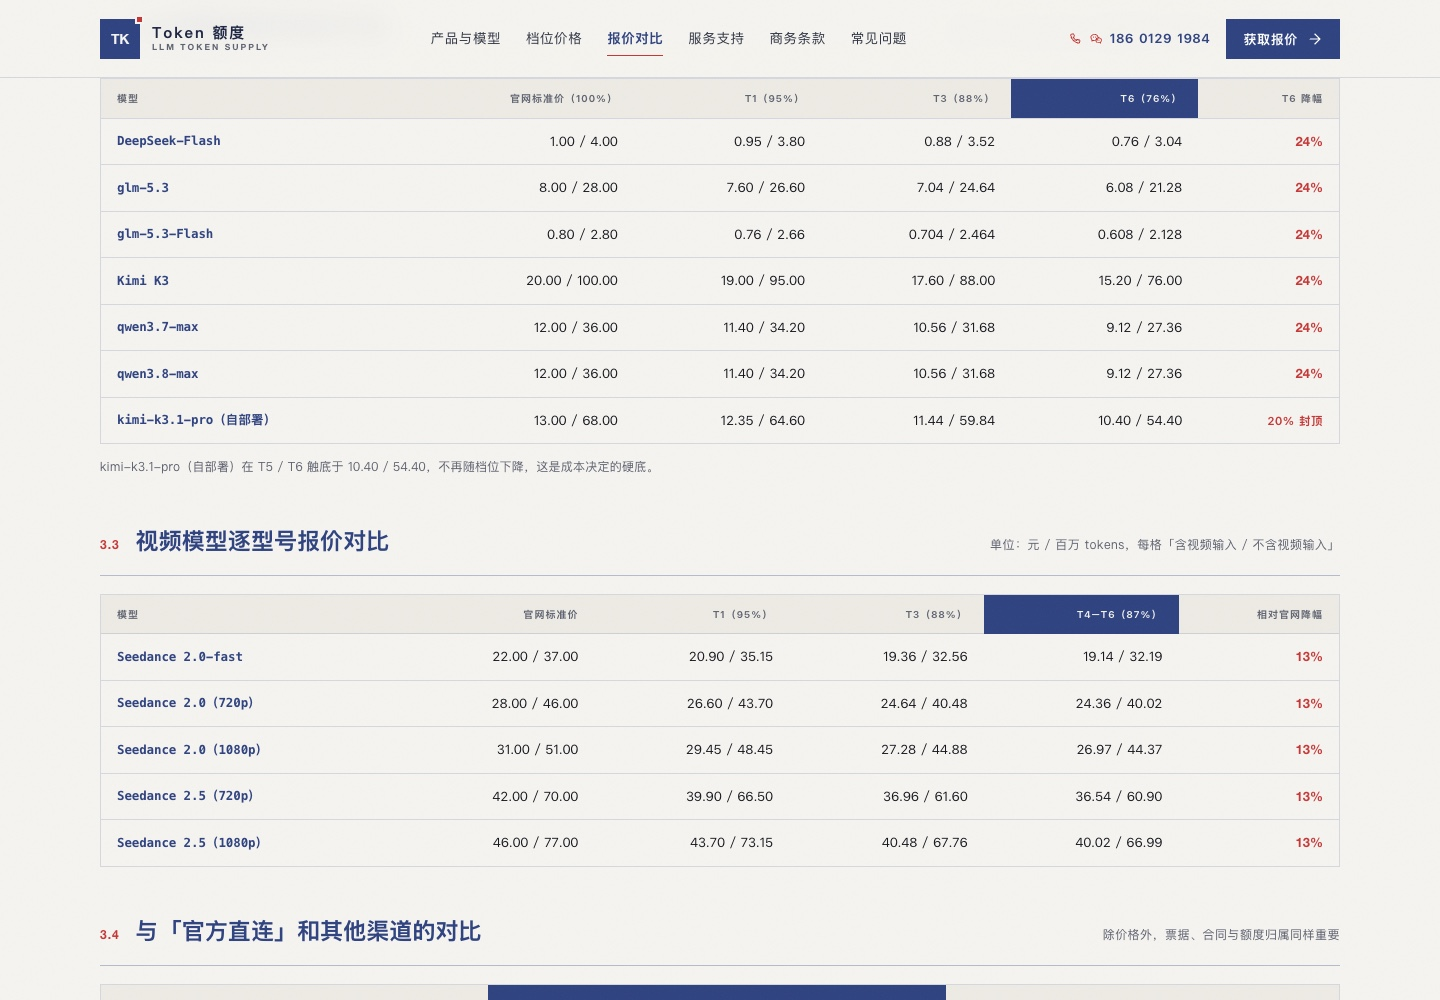
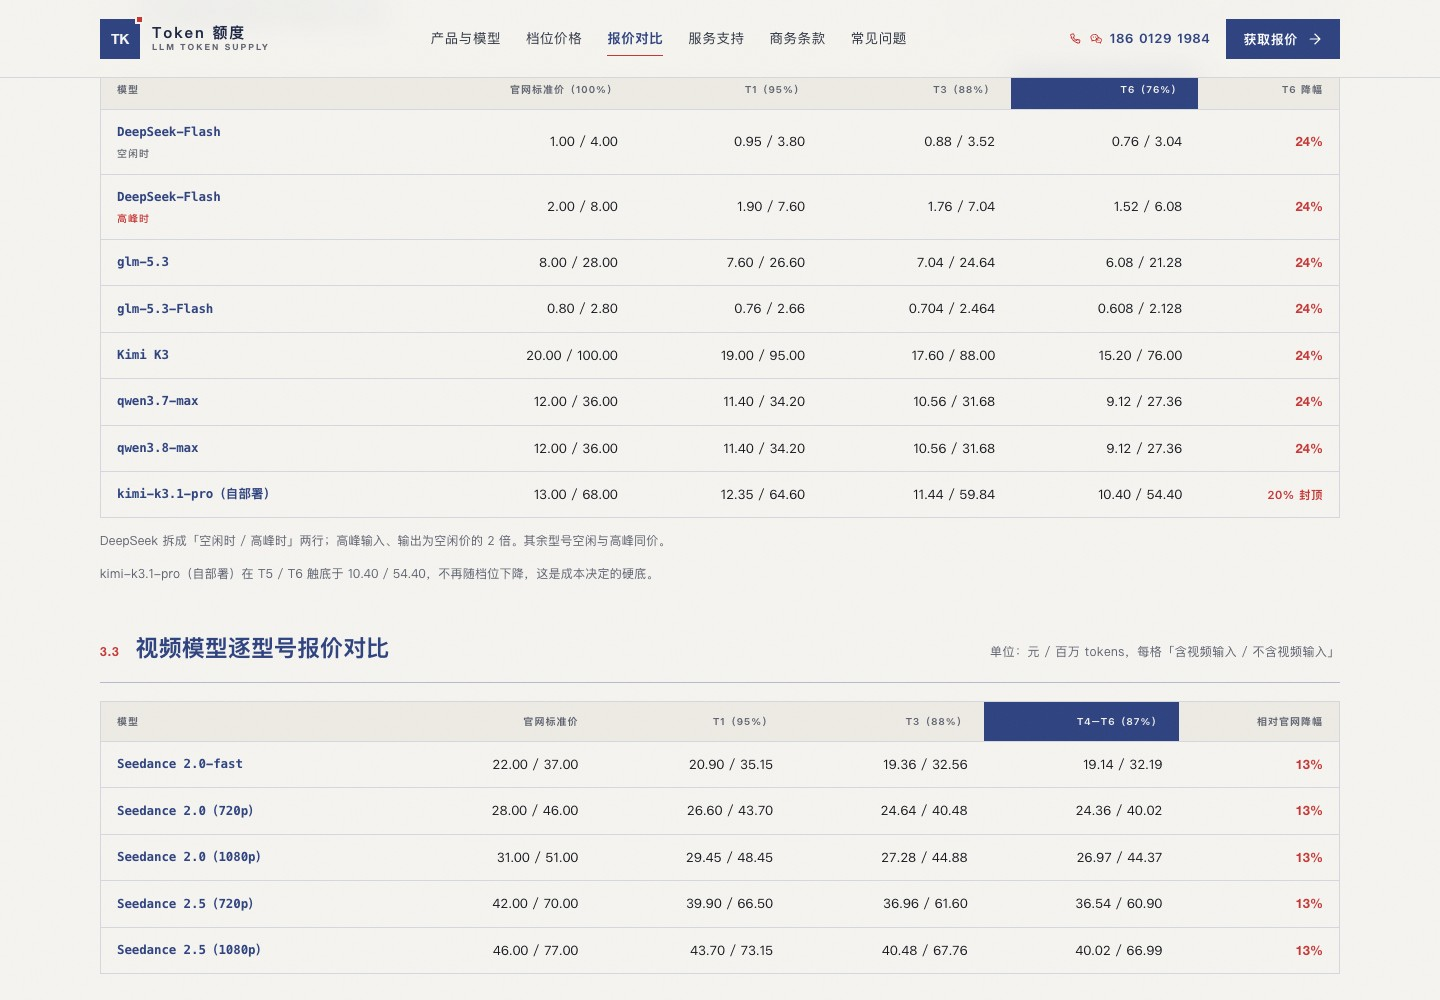
DeepSeek 价目拆分为空闲时/高峰时两行，写清时段价差

diff --git a/token/index.html b/token/index.html
@@ -20,7 +20,7 @@
   <link rel="canonical" href="https://zhizhuer9110.github.io/game-qa-site/token/">
   <link rel="icon" href="assets/favicon.svg" type="image/svg+xml">
   <script>document.documentElement.classList.add("js");</script>
-  <link rel="stylesheet" href="assets/token.css?v=20261116g">
+  <link rel="stylesheet" href="assets/token.css?v=20261130">
   <script type="application/ld+json">
   {
     "@context": "https://schema.org",
@@ -573,7 +573,8 @@
             <tr><th scope="col">模型</th><th scope="col">官网标准价（100%）</th><th scope="col">T1（95%）</th><th scope="col">T3（88%）</th><th scope="col" class="col-best">T6（76%）</th><th scope="col">T6 降幅</th></tr>
           </thead>
           <tbody>
-            <tr><th scope="row">DeepSeek-Flash</th><td>1.00 / 4.00</td><td>0.95 / 3.80</td><td>0.88 / 3.52</td><td class="col-best">0.76 / 3.04</td><td><span class="cut">24%</span></td></tr>
+            <tr><th scope="row">DeepSeek-Flash<span class="row-tag">空闲时</span></th><td>1.00 / 4.00</td><td>0.95 / 3.80</td><td>0.88 / 3.52</td><td class="col-best">0.76 / 3.04</td><td><span class="cut">24%</span></td></tr>
+            <tr><th scope="row">DeepSeek-Flash<span class="row-tag is-peak">高峰时</span></th><td>2.00 / 8.00</td><td>1.90 / 7.60</td><td>1.76 / 7.04</td><td class="col-best">1.52 / 6.08</td><td><span class="cut">24%</span></td></tr>
             <tr><th scope="row">glm-5.3</th><td>8.00 / 28.00</td><td>7.60 / 26.60</td><td>7.04 / 24.64</td><td class="col-best">6.08 / 21.28</td><td><span class="cut">24%</span></td></tr>
             <tr><th scope="row">glm-5.3-Flash</th><td>0.80 / 2.80</td><td>0.76 / 2.66</td><td>0.704 / 2.464</td><td class="col-best">0.608 / 2.128</td><td><span class="cut">24%</span></td></tr>
             <tr><th scope="row">Kimi K3</th><td>20.00 / 100.00</td><td>19.00 / 95.00</td><td>17.60 / 88.00</td><td class="col-best">15.20 / 76.00</td><td><span class="cut">24%</span></td></tr>
@@ -584,7 +585,7 @@
         </table>
       </div>
       <p class="scroll-hint">左右滑动查看 T1 / T3 / T6 完整价目 <span aria-hidden="true">→</span></p>
-      <p class="table-note reveal">DeepSeek 分空闲 / 高峰两个时段，高峰输入、输出按上表空闲价的 2 倍计；上表展示空闲价。</p>
+      <p class="table-note reveal">DeepSeek 拆成「空闲时 / 高峰时」两行；高峰输入、输出为空闲价的 2 倍。其余型号空闲与高峰同价。</p>
       <p class="table-note reveal">kimi-k3.1-pro（自部署）在 T5 / T6 触底于 10.40 / 54.40，不再随档位下降，这是成本决定的硬底。</p>
 
       <div class="sub-head reveal">

diff --git a/token/assets/token.css b/token/assets/token.css
@@ -1399,6 +1399,16 @@ body.nav-open { overflow: hidden; }
   color: var(--navy);
   letter-spacing: -.01em;
 }
+.price-table tbody th .row-tag {
+  display: block;
+  margin-top: 3px;
+  font-family: var(--font-cn);
+  font-size: 10px;
+  font-weight: 500;
+  letter-spacing: .08em;
+  color: var(--muted);
+}
+.price-table tbody th .row-tag.is-peak { color: var(--red); }
 .price-table tbody tr:last-child th,
 .price-table tbody tr:last-child td { border-bottom: 0; }
 .price-table tbody tr:hover { background: rgba(46, 66, 128, .035); }

diff --git a/token/README.md b/token/README.md
@@ -46,7 +46,7 @@ token/
 - **图形化**：原文的档位表改为「让利幅度」柱状图（文本 5%→24%，视频 5%→13%，T4 起封顶），价目表用海军蓝列强调 T6；没有使用照片素材，避免引入与业务无关的图片。
 - **报价试算**：新增一个按原文规则工作的计算器：输入季度累计实付，输出命中档位、文本/视频折扣与估算到手额度（到手额度 = 实付 ÷ 折扣率）。默认 300,000 元 → T3 88%。
 - **价格口径**：v1.1 与 v1.0 的公开价格数字一致，仅报价有效期调整为 2026-11-13 至 2026-11-30。
-- **DeepSeek 时段价**：DeepSeek 分空闲 / 高峰两档，高峰输入、输出为空闲价的 2 倍；价目表展示空闲价。
+- **DeepSeek 时段价**：DeepSeek 分空闲 / 高峰两档，高峰输入、输出为空闲价的 2 倍；价目表拆成「空闲时 / 高峰时」两行，其余型号两档同价。
 - **对外口径**：原文中的内部表述（如“销售侧不得自行承诺”“不能当全品类最低价讲”、视频毛利差额）改写为对客户可读的说法；未新增与原文冲突的价格承诺。
 - **联系方式**：原文未包含联系人，沿用现有官网的「王萌 / 186 0129 1984 / 微信同号」。如需更换，搜索 `186 0129 1984` 与 `18601291984` 替换即可。
 
